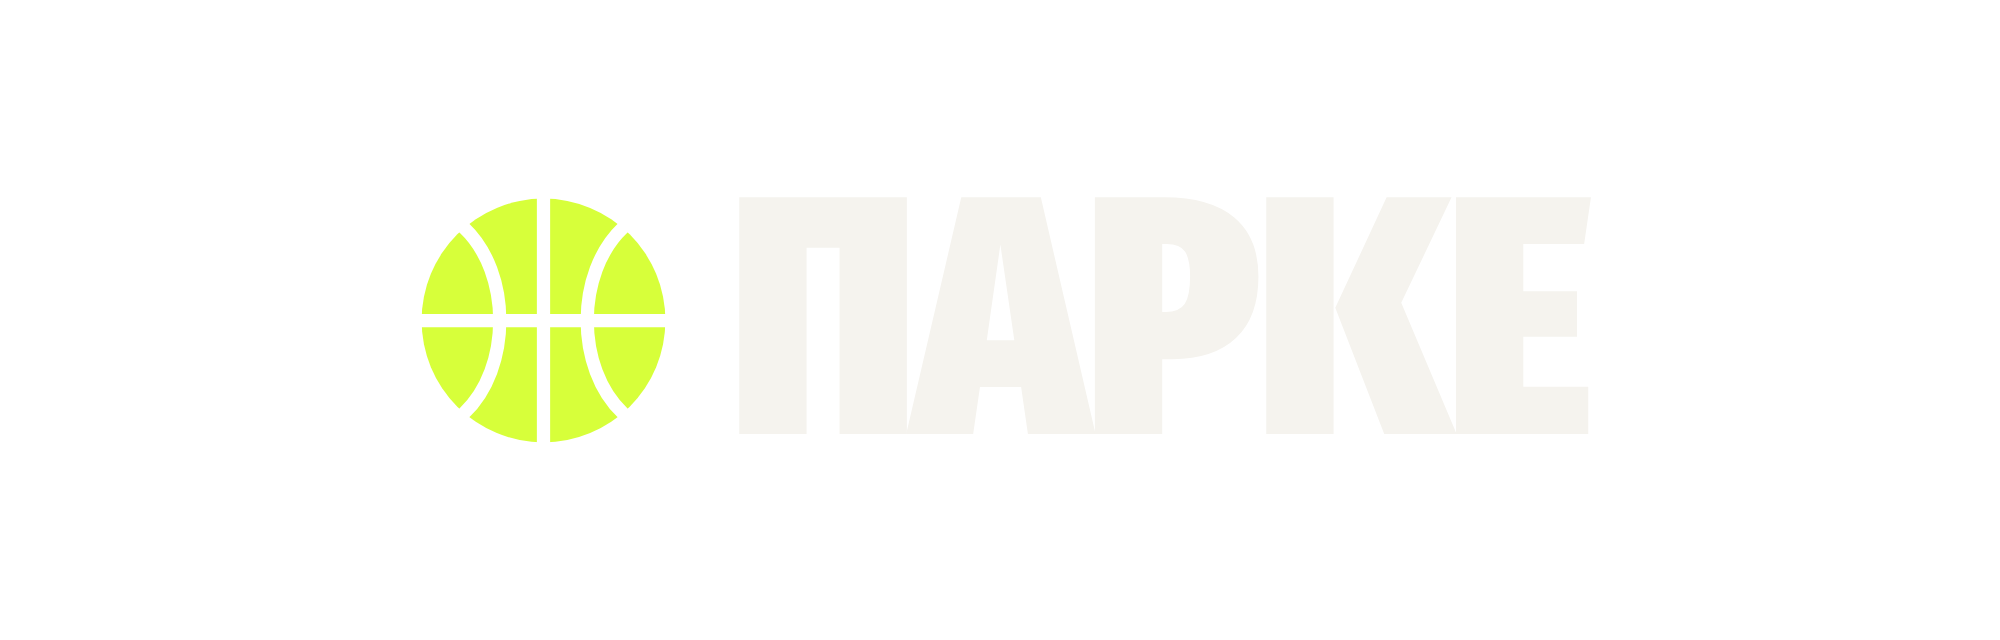
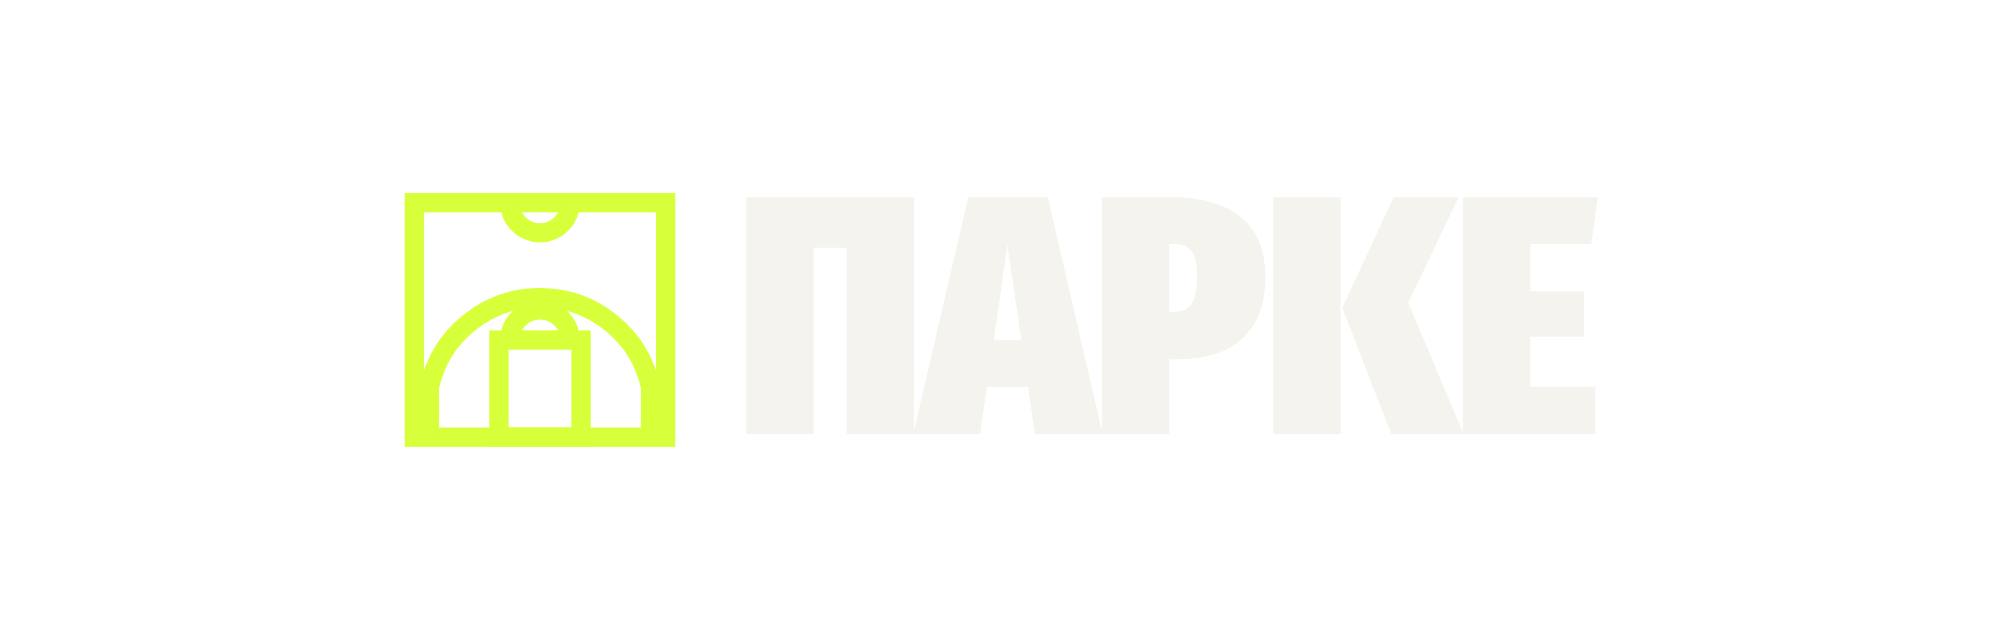
Brand: minimal half-court mark replaces the basketball
Top view of a FIBA half court in real proportions (sidelines, centre
circle, paint, free-throw circle, three-point line), exported as SVG and
used for the avatar, wordmarks and X headers.

Changed region(s): [[0.186, 0.2812, 0.341, 0.7188]]

diff --git a/scripts/render_brand.py b/scripts/render_brand.py
@@ -1,5 +1,5 @@
 #!/usr/bin/env python3
-"""Render brand assets (ball mark, avatar, wordmarks, X headers) into assets/brand/.
+"""Render brand assets (court mark, avatar, wordmarks, X headers) into assets/brand/.
 
 Usage: python3 scripts/render_brand.py
 Uses the palette in brand.json and the same headless Chrome as render_cards.py.
@@ -19,17 +19,28 @@ LANGS = {
 }
 
 
-def ball(color, size=None, uid="b"):
-    """Minimal basketball: a solid disc with the seams cut out (transparent), so it
-    sits on any background. Pure geometry, so it is also exported as a real SVG."""
-    dim = f' width="{size}" height="{size}"' if size else ""
-    return f"""<svg xmlns="http://www.w3.org/2000/svg" viewBox="0 0 100 100"{dim}>
-  <mask id="{uid}"><rect width="100" height="100" fill="#fff"/>
-    <g fill="none" stroke="#000" stroke-width="5" stroke-linecap="round">
-      <line x1="50" y1="0" x2="50" y2="100"/><line x1="0" y1="50" x2="100" y2="50"/>
-      <path d="M20,15 C38,32 38,68 20,85"/><path d="M80,15 C62,32 62,68 80,85"/>
-    </g></mask>
-  <circle cx="50" cy="50" r="46" fill="{color}" mask="url(#{uid})"/>
+def court(color, size=None, stroke=4):
+    """Minimal half court, top view, in real FIBA proportions (15 x 14 m): sidelines,
+    halfway line with the centre circle, the paint with the free-throw circle and the
+    three-point line. Pure geometry, so it is also exported as a real SVG."""
+    s, x0, top = 5.2, 11, 11                       # metres -> viewBox units
+    base, cx = top + 14 * s, 50
+    basket = base - 1.575 * s
+    key_w, key_top, r_ft, r_3 = 4.9 * s, base - 5.8 * s, 1.8 * s, 6.75 * s
+    c1, c2 = x0 + 0.9 * s, x0 + 15 * s - 0.9 * s  # three-point corner lines
+    c_y = basket - ((r_3 ** 2 - (cx - c1) ** 2) ** 0.5)
+    f = lambda v: f"{v:.2f}".rstrip("0").rstrip(".")
+    pad = stroke / 2
+    vb = f"{f(x0 - pad)} {f(top - pad)} {f(15 * s + stroke)} {f(14 * s + stroke)}"
+    dim = f' width="{size}" height="{f(size * 14 / 15)}"' if size else ""
+    return f"""<svg xmlns="http://www.w3.org/2000/svg" viewBox="{vb}"{dim}>
+  <g fill="none" stroke="{color}" stroke-width="{stroke}">
+    <rect x="{x0}" y="{top}" width="{f(15 * s)}" height="{f(14 * s)}"/>
+    <path d="M{f(cx - r_ft)},{top} A{f(r_ft)},{f(r_ft)} 0 0 0 {f(cx + r_ft)},{top}"/>
+    <rect x="{f(cx - key_w / 2)}" y="{f(key_top)}" width="{f(key_w)}" height="{f(base - key_top)}"/>
+    <path d="M{f(cx - r_ft)},{f(key_top)} A{f(r_ft)},{f(r_ft)} 0 0 1 {f(cx + r_ft)},{f(key_top)}"/>
+    <path d="M{f(c1)},{f(base)} V{f(c_y)} A{f(r_3)},{f(r_3)} 0 0 1 {f(c2)},{f(c_y)} V{f(base)}"/>
+  </g>
 </svg>"""
 
 
@@ -49,23 +60,22 @@ svg {{ display: block; position: relative; }}
 """
 
 
-def lockup(lang, font_px, color, ball_color):
-    # Ball ~ cap height plus a little, so it reads as an equal partner to the name.
-    b = round(font_px * 0.78)
-    return f"""<div class="lockup" style="gap:{round(font_px * 0.16)}px">{ball(ball_color, b, "w")}
+def lockup(lang, font_px, color, mark_color):
+    # Court mark ~ cap height wide, with a heavier stroke so it holds up next to Black type.
+    return f"""<div class="lockup" style="gap:{round(font_px * 0.18)}px">{court(mark_color, round(font_px * 0.8), 6)}
 <div class="word" style="font-size:{font_px}px; color:{color}">{LANGS[lang]['name']}</div></div>"""
 
 
 def avatar():
-    # One avatar for every language. The ball fills ~60% so the circle crop never touches it.
-    return CSS % dict(w=1080, h=1080), ball(C["accent"], 640), 1080, 1080, True
+    # One avatar for every language. The court's corners stay well inside the circle crop.
+    return CSS % dict(w=1080, h=1080), court(C["accent"], 600), 1080, 1080, True
 
 
 def wordmark(lang, mode):
     """mode: "ink" (on the dark brand background), "light-text" (transparent, for dark
     backgrounds) or "mono" (transparent, all ink: for white or light backgrounds)."""
-    text, ballc = (C["bg"], C["bg"]) if mode == "mono" else (C["fg"], C["accent"])
-    return CSS % dict(w=2000, h=640), lockup(lang, 340, text, ballc), 2000, 640, mode == "ink"
+    text, markc = (C["bg"], C["bg"]) if mode == "mono" else (C["fg"], C["accent"])
+    return CSS % dict(w=2000, h=640), lockup(lang, 340, text, markc), 2000, 640, mode == "ink"
 
 
 def header(lang):
@@ -95,11 +105,9 @@ def shoot(css, body, w, h, on_ink, out, lang="en"):
 
 def main():
     OUT.mkdir(parents=True, exist_ok=True)
-    for old in OUT.glob("avatar-*.png"):  # per-language letter avatars are replaced by the ball
-        old.unlink()
-    (OUT / "ball.svg").write_text(ball(C["accent"]))
-    (OUT / "ball-mono.svg").write_text(ball(C["bg"]))
-    print("assets/brand/ball.svg\nassets/brand/ball-mono.svg")
+    (OUT / "court.svg").write_text(court(C["accent"]))
+    (OUT / "court-mono.svg").write_text(court(C["bg"]))
+    print("assets/brand/court.svg\nassets/brand/court-mono.svg")
     shoot(*avatar(), OUT / "avatar.png")
     for lang in LANGS:
         shoot(*wordmark(lang, "ink"), OUT / f"wordmark-{lang}.png", lang)
